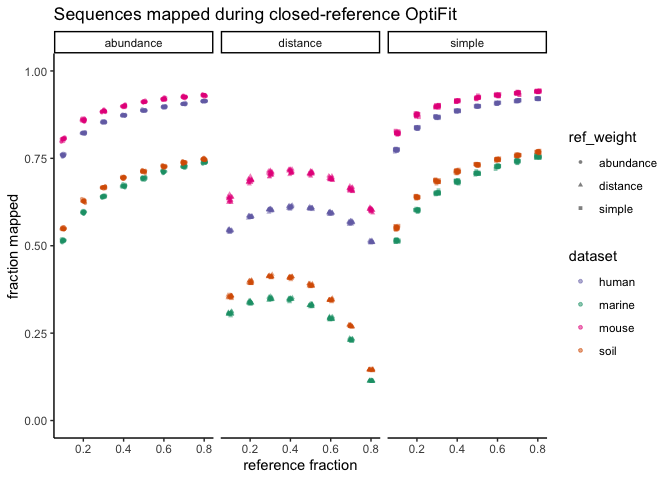
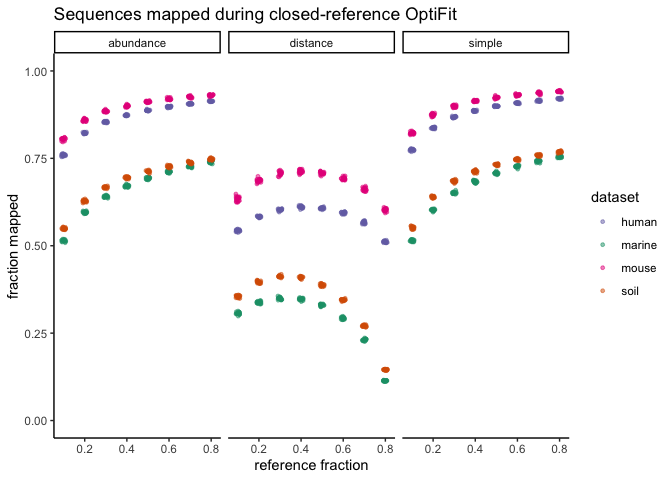
Remove shapes

diff --git a/exploratory/2020/sub3_fit_subsets.md b/exploratory/2020/sub3_fit_subsets.md
@@ -94,7 +94,7 @@ runtime %>%
 fractions <- read_tsv(here('subworkflows/3_fit_sample_subset/results/fraction_reads_mapped.tsv'))
 fractions %>% 
   group_by(dataset, ref_weight, ref_frac) %>% 
-  ggplot(aes(x=ref_frac, y=fraction_mapped, color=dataset, shape=ref_weight)) +
+  ggplot(aes(x=ref_frac, y=fraction_mapped, color=dataset)) +
   geom_jitter(alpha = 0.5, width = 0.01, size=1) +
   scale_color_manual(values = dataset_colors) +
   facet_wrap("ref_weight") +
